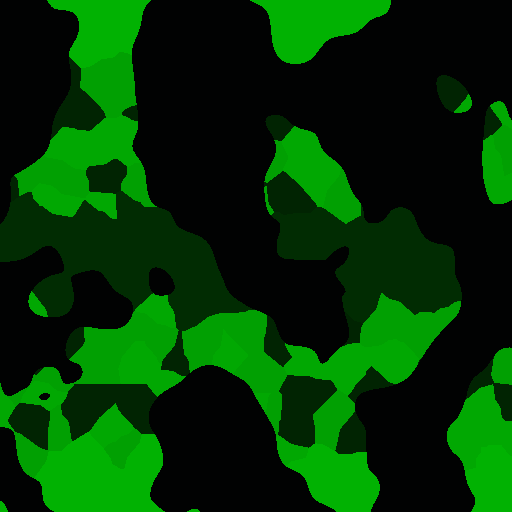
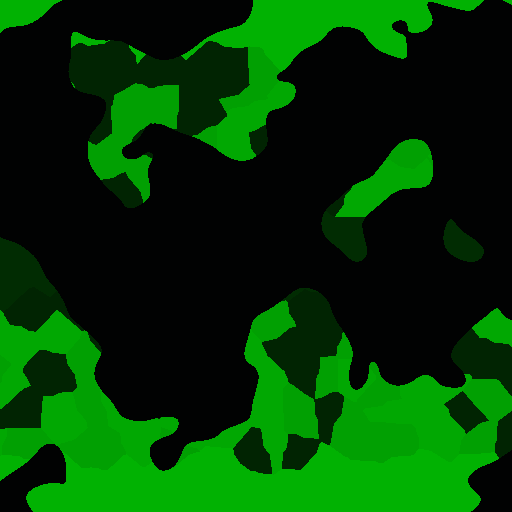
It's a Simulation

diff --git a/roguelike/Game.cpp b/roguelike/Game.cpp
@@ -6,6 +6,7 @@
 #include "Character.h"
 #include "Structure.h"
 #include "Tile.h"
+#include "Faction.h"
 
 #include <filesystem>
 
@@ -274,7 +275,9 @@ void Game::startup_new_game() {
 	
 	GameObjects::new_level_id = Random::random(Random::generator);
 
-	new_world();
+	new_galaxy();
+	generate_factions();
+
 	_log = new Log;
 	_status = new Status(_player, &_time);
 	new Message_Box("No errors");
@@ -397,6 +400,7 @@ void Game::new_world() {
 	_level = _world->get_current_level();
 	_level->save_level_image("Data\\Level.png");
 	_level->set_savedir("surface");
+	_world_id = _level->id;
 
 	_player = new Player(0, 0, 0, '@', TCODColor::blue);
 	_player->spawn_player_in_world();
@@ -415,6 +419,7 @@ void Game::new_solar_system() {
 	_level = new Level;
 	_level->generate_level(256, Level::SOLAR_SYSTEM);
 	_level->set_savedir("solarsystem");
+	_solarsystem_id = _level->id;
 
 	_player = new Player(0, 0, 0, '@', TCODColor::blue);
 	_player->spawn_player(Level::SOLAR_SYSTEM);
@@ -431,6 +436,7 @@ void Game::new_star_sector() {
 	_level = new Level;
 	_level->generate_level(512, Level::STAR_SECTOR);
 	_level->set_savedir("starsector");
+	_starsector_id - _level->id;
 
 	_player = new Player(0, 0, 0, '@', TCODColor::blue);
 	_player->spawn_player(Level::STAR_SECTOR);
@@ -446,7 +452,8 @@ void Game::new_galaxy() {
 	_level = new Level;
 	_level->generate_level(1024, Level::GALAXY);
 	_level->set_savedir("galaxy");
-	
+	_galaxy_id = _level->id;
+
 	_player = new Player(0, 0, 0, '@', TCODColor::blue);
 	_player->spawn_player(Level::GALAXY);
 
@@ -568,9 +575,7 @@ void Game::to_galaxy() {
 		return;
 	}
 	
-	for (auto f : std::experimental::filesystem::directory_iterator(_savegame_directory + "\\galaxy")) {
-		GameObjects::level_id_to_load = std::stoi(f.path().filename().string());
-	}
+	GameObjects::level_id_to_load = _galaxy_id;
 	
 	load_level();
 	_level->set_savedir("galaxy");
@@ -591,9 +596,7 @@ void Game::to_star_sector() {
 		return;
 	}
 	
-	for (auto f : std::experimental::filesystem::directory_iterator(_savegame_directory + "\\starsector")) {
-		GameObjects::level_id_to_load = std::stoi(f.path().filename().string());
-	}
+	GameObjects::level_id_to_load = _starsector_id;
 	
 	load_level();
 	_level->set_savedir("starsector");
@@ -614,9 +617,7 @@ void Game::to_solar_system() {
 		return;
 	}
 	
-	for (auto f : std::experimental::filesystem::directory_iterator(_savegame_directory + "\\solarsystem")) {
-		GameObjects::level_id_to_load = std::stoi(f.path().filename().string());
-	}
+	GameObjects::level_id_to_load = _solarsystem_id;
 	
 	load_level();
 	_level->set_savedir("solarsystem");
@@ -637,10 +638,8 @@ void Game::to_world_map() {
 		return;
 	}
 
-	for (auto f : std::experimental::filesystem::directory_iterator(_savegame_directory + "\\world")) {
-		GameObjects::level_id_to_load = std::stoi(f.path().filename().string());
-	}
-
+	GameObjects::level_id_to_load = _world_id;
+	
 	load_level();
 	_level->set_savedir("world");
 	_level->update();
@@ -747,4 +746,25 @@ void Game::open_map() {
 void Game::close_map() {
 	delete _gui_map;
 	_gui_map = nullptr;
+}
+
+void Game::generate_factions() {
+	for (int i = 0; i < 5; i++) {
+		new Faction(Random::randc(0, (_level->get_size() / 2) - 1), Random::randc(0, (_level->get_size() / 2) - 1));
+	}
+
+	for (int i = 0; i < 10000; i++) {
+		for (Faction* f : Faction::get_factions()) {
+			f->simulate();
+//			std::cout << i << std::endl;
+		}
+	}
+
+	TCODImage img(_level->get_size() / 2, _level->get_size() / 2);
+	for (Faction* f : Faction::get_factions()) {
+		for (Actor* a : f->get_owned_tiles()) {
+			img.putPixel(a->get_world_pos()[0], a->get_world_pos()[1], f->get_color());
+		}
+	}
+	img.save("Data\\factionmap.png");
 }

diff --git a/roguelike/Faction.cpp b/roguelike/Faction.cpp
@@ -1,0 +1,75 @@
+#include "Faction.h"
+
+#include <iostream>
+
+std::vector<Faction*> Faction::_factions;
+
+Faction::Faction() {
+
+}
+
+Faction::Faction(int startx, int starty) {
+	_factions.push_back(this);
+	_capital_tile = Actor::get_actors(startx, starty, 0).back();
+	_owned_tiles.push_back(_capital_tile);
+	_color = TCODColor(Random::randc(0, 255), Random::randc(0, 255), Random::randc(0, 255));
+	_name = std::to_string(Random::random(Random::generator));
+}
+
+Faction::~Faction() {
+
+}
+
+void Faction::simulate() {
+	if (Random::coinflip(Random::generator) == 1) { 
+		// EXPAND
+		int offset = _owned_tiles.size() - 1;
+		
+		std::vector<Actor*> ex_points;
+		
+		while (true) {
+			ex_points = _owned_tiles[offset]->get_adjacent_actors_vec();
+			for (int i = ex_points.size() - 1; i >= 0; i--) {
+				if (ex_points[i] == nullptr || self_own_tile(ex_points[i]->get_world_pos()[0], ex_points[i]->get_world_pos()[1])) {
+					ex_points.erase(ex_points.begin() + i);
+				}
+			}
+			if (ex_points.size() != 0) {
+				break;
+			}
+			else {
+				offset--;
+			}
+		}
+		int idx2 = Random::randc(0, ex_points.size() - 1);
+		if (ex_points[idx2] == nullptr) {
+			std::cout << "Something went wrong" << std::endl;
+			return;
+		}
+		_owned_tiles.push_back(ex_points[idx2]);
+	}
+	else { 
+		// FORTIFY
+
+	}
+}
+
+bool Faction::does_faction_own_tile(int x, int y) {
+	for (Faction* f : _factions) {
+		for (Actor* a : f->get_owned_tiles()) {
+			if (a->get_world_pos()[0] == x && a->get_world_pos()[1] == y) {
+				return true;
+			}
+		}
+	}
+	return false;
+}
+
+bool Faction::self_own_tile(int x, int y) {
+	for (Actor* a : _owned_tiles) {
+		if (Actor::get_actor(x, y, 0) == a) {
+			return true;
+		}
+	}
+	return false;
+}

diff --git a/roguelike/Faction.h b/roguelike/Faction.h
@@ -1,0 +1,34 @@
+#pragma once
+
+#include "Tile.h"
+
+#include <vector>
+
+class Faction {
+public:
+	Faction();
+	Faction(int startx, int starty);
+	
+	~Faction();
+
+	static std::vector<Faction*> get_factions() { return _factions; }
+
+	static bool does_faction_own_tile(int x, int y);
+
+	TCODColor get_color() { return _color; }
+
+	std::vector<Actor*> get_owned_tiles() { return _owned_tiles; }
+
+	void simulate();
+
+	bool self_own_tile(int x, int y);
+
+private:
+	static std::vector<Faction*> _factions;
+
+	std::vector<Actor*> _owned_tiles;
+	Actor* _capital_tile;
+	TCODColor _color;
+	std::string _name;
+};
+

diff --git a/roguelike/Game.h b/roguelike/Game.h
@@ -111,9 +111,12 @@ public:
 
 	void close_map();
 
+	void generate_factions();
+
 private:
 	
 	int _screen_width, _screen_height, _num_actors_drawn, _num_updates, _turn;
+	int _galaxy_id = 0; int _starsector_id = 0; int _solarsystem_id = 0; int _world_id = 0;
 	
 	TCOD_key_t _key;
 	TCOD_mouse_t _mouse;
@@ -125,9 +128,6 @@ private:
 	Level* _level = nullptr;
 	Camera* _camera = nullptr;
 	World* _world = nullptr;
-	Level* _galaxy = nullptr;
-	Level* _star_sector = nullptr;
-	Level* _solar_system = nullptr;
 	
 	// Player stuff
 	Player* _player = nullptr;

diff --git a/roguelike/Actor.cpp b/roguelike/Actor.cpp
@@ -100,6 +100,12 @@ void Actor::draw_mem() {
 }
 
 Actor* Actor::get_actor(int x, int y, int z) {
+	if (x >= _map->size()) {
+		return nullptr;
+	}
+	if (y >= _map[0].size()) {
+		return nullptr;
+	}
 	return (*_map)[x][y].back();
 }
 
